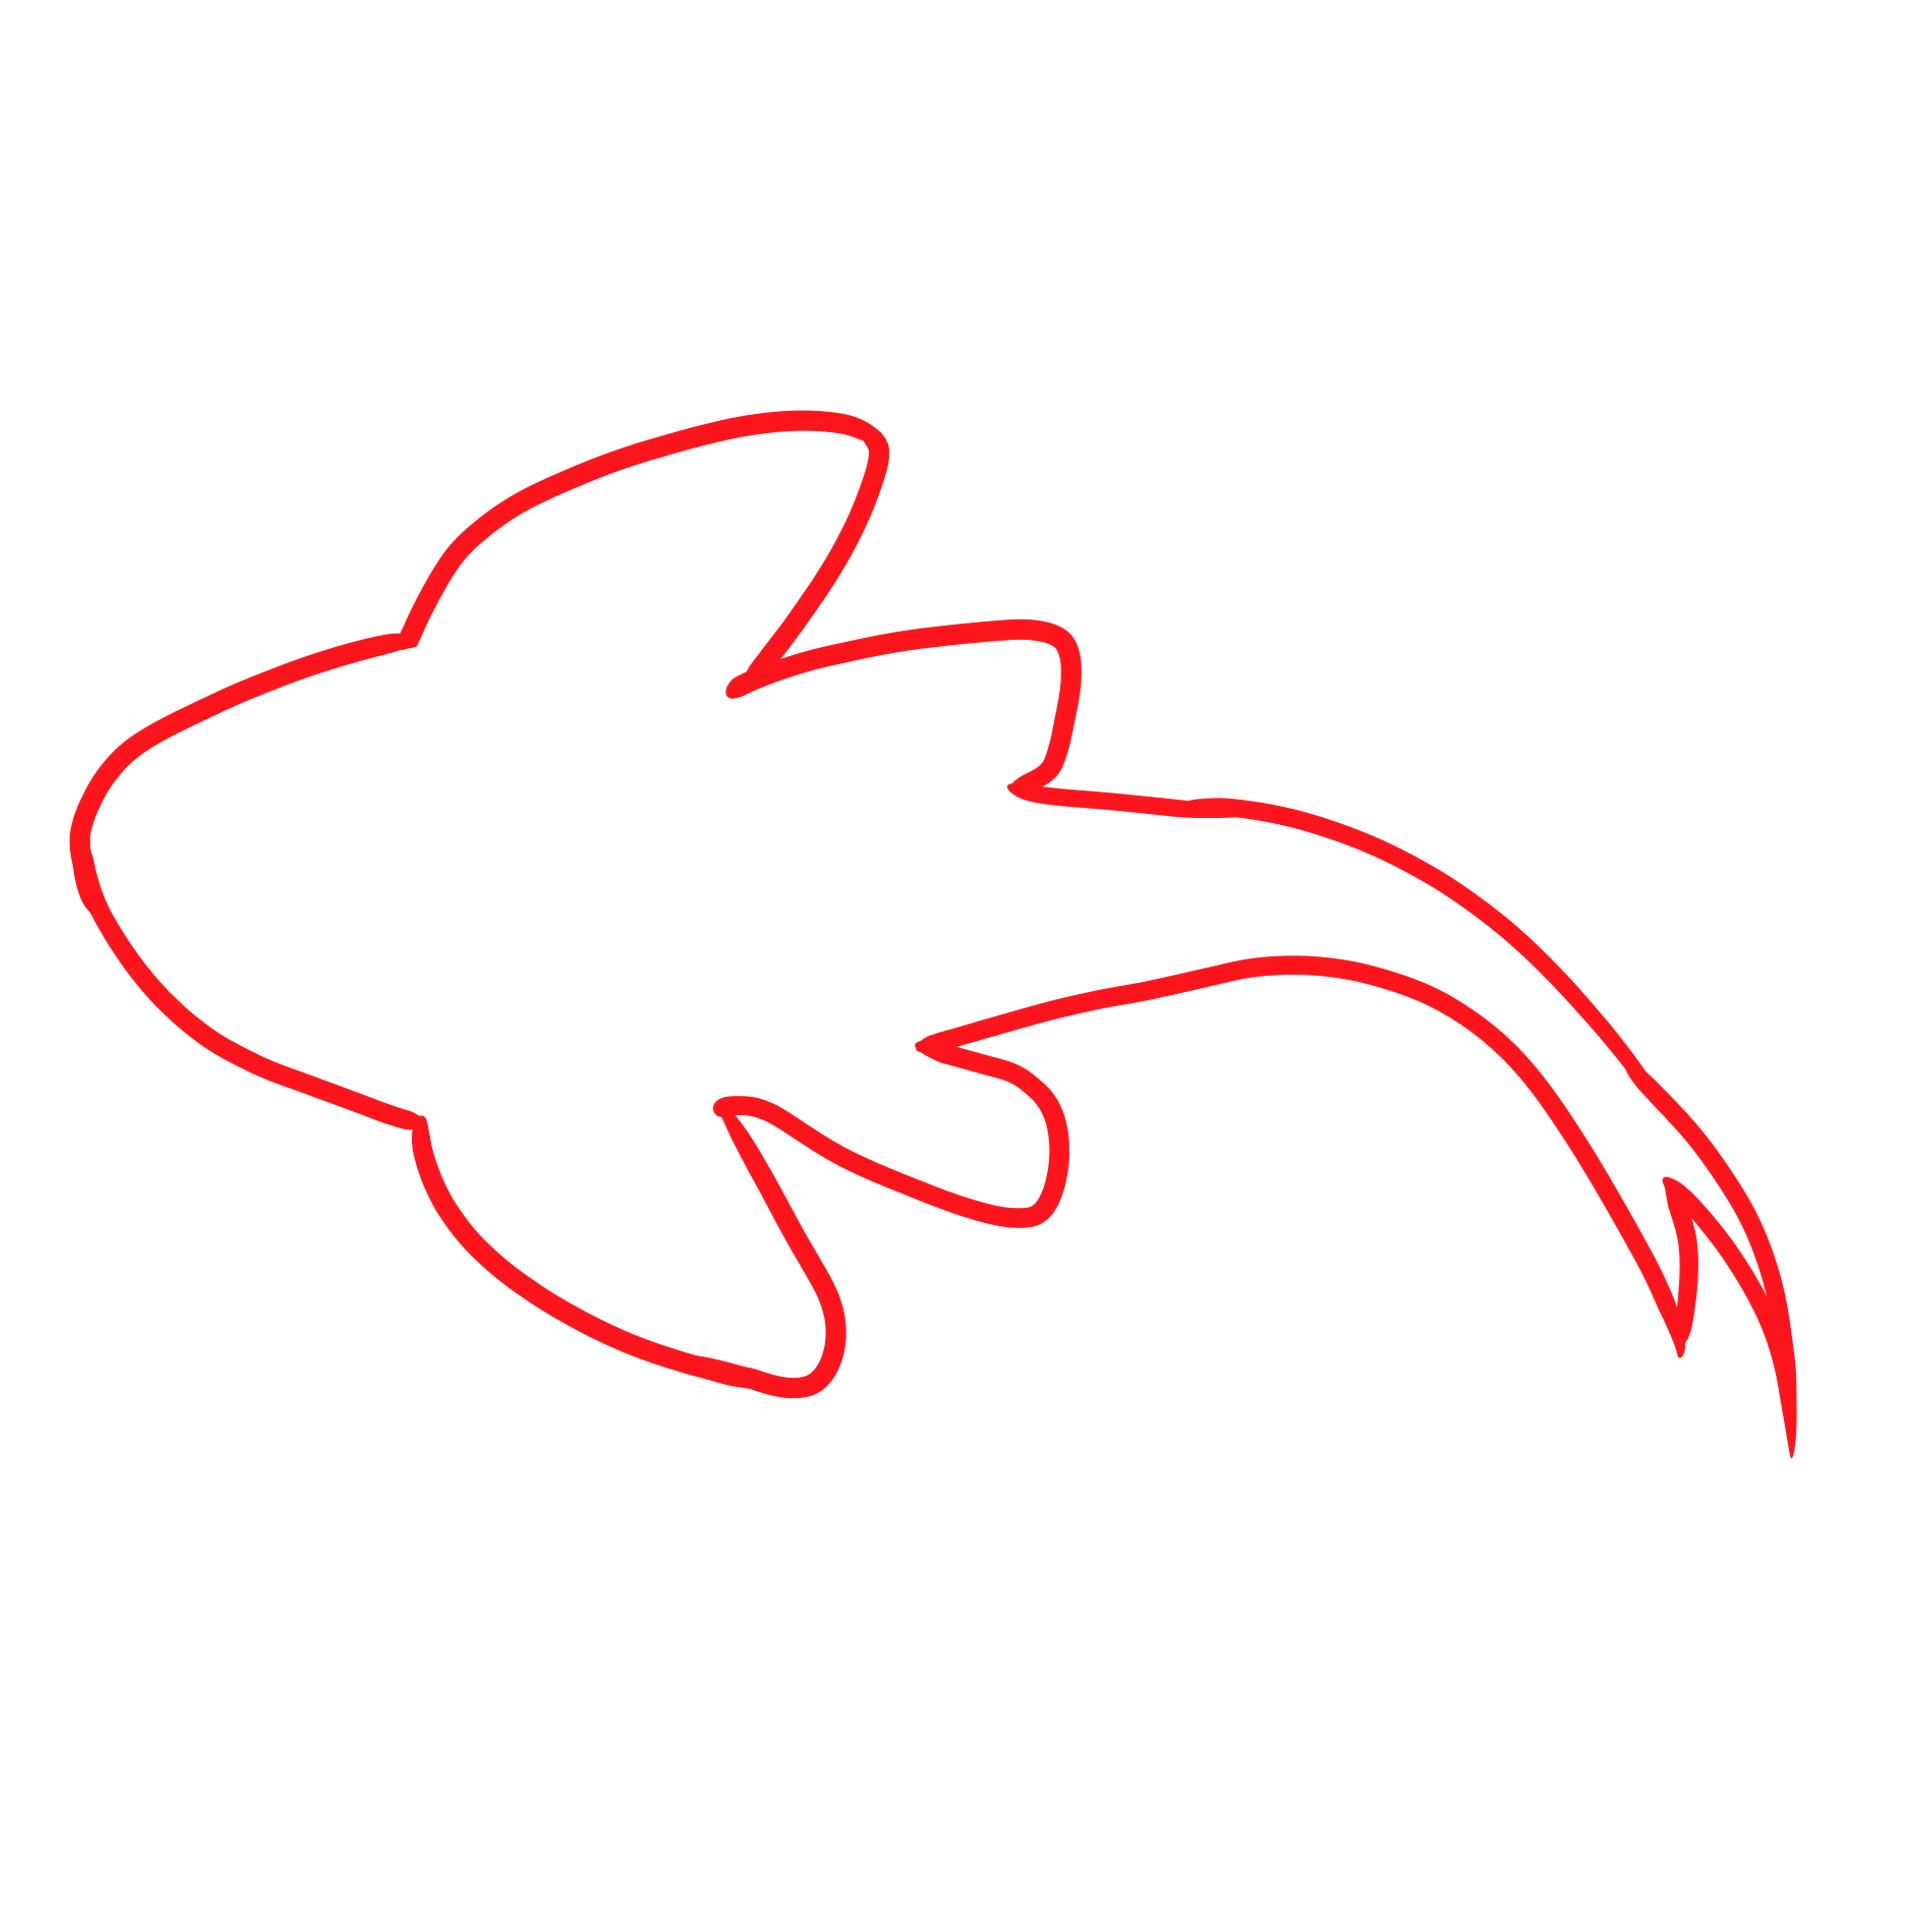
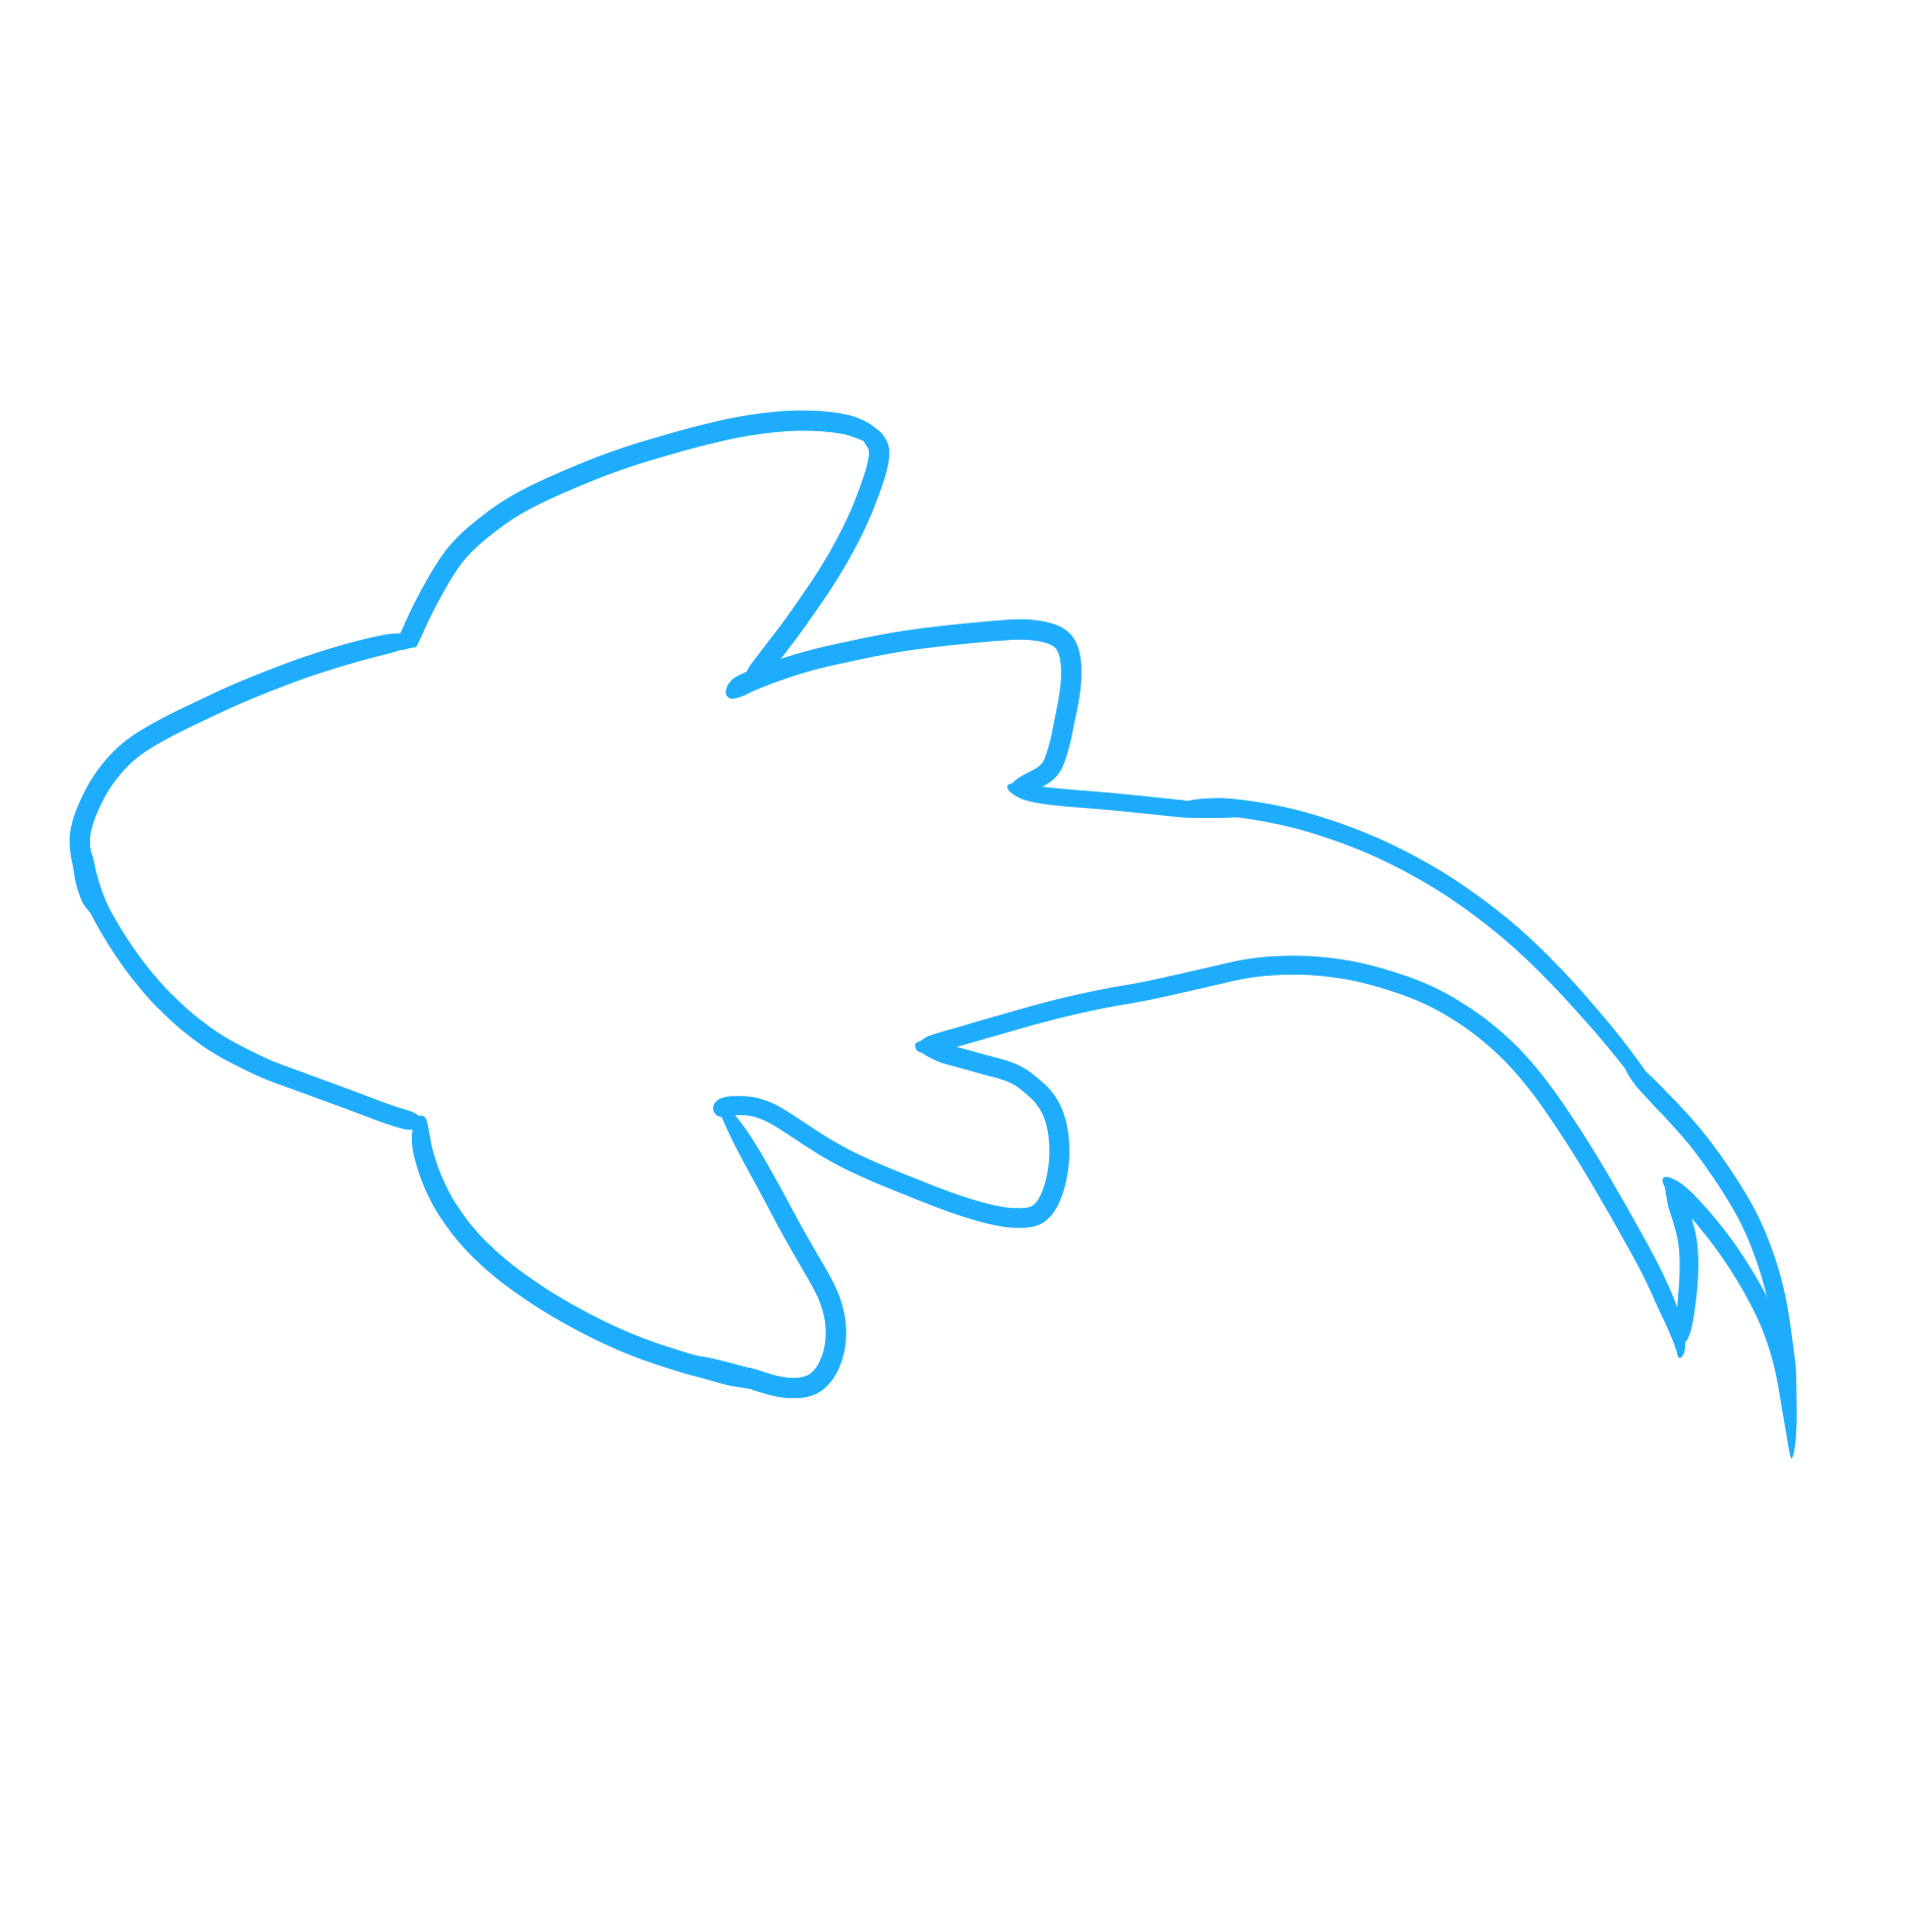
ui fix

diff --git a/js/app.js b/js/app.js
@@ -25,11 +25,11 @@ function addLog(msg, type) {
   l.scrollTop = l.scrollHeight;
 }
 function setActivePreset(num) {
-  document.querySelectorAll('.preset-btn, .arc-item, .day-btn').forEach(b => b.classList.remove('active'));
+  document.querySelectorAll('.preset-btn, .arc-item, .day-btn, .tracker-btn').forEach(b => b.classList.remove('active'));
   if (num != null) {
     const sel = '[data-preset="' + num + '"]';
     document.querySelectorAll(sel).forEach(b => {
-      if (b.classList.contains('preset-btn') || b.classList.contains('arc-item') || b.classList.contains('day-btn')) {
+      if (b.classList.contains('preset-btn') || b.classList.contains('arc-item') || b.classList.contains('day-btn') || b.classList.contains('tracker-btn')) {
         b.classList.add('active');
       }
     });
@@ -176,8 +176,8 @@ addTapListener(document.getElementById('custom-send'), async () => {
 });
 
 /* All tappable preset surfaces: arc items, preset buttons, day buttons, morse
- * (the good night button has its own handler — it also hands off to the tracker) */
-document.querySelectorAll('.arc-item, .preset-btn, .day-btn:not(.goodnight), .morse-btn').forEach(btn => {
+ * (the sun/moon tracker buttons have their own handlers — they also hand off to the tracker) */
+document.querySelectorAll('.arc-item, .preset-btn, .day-btn, .morse-btn').forEach(btn => {
   addTapListener(btn, async (e) => {
     if (!(await ensureConnected())) return;
     if (e && e.touches && e.touches[0]) {
@@ -195,11 +195,14 @@ document.querySelectorAll('.arc-item, .preset-btn, .day-btn:not(.goodnight), .mo
   });
 });
 
-/* Good night: set the evening lights, then hand off to the sleep tracker demo */
-addTapListener(document.getElementById('goodnight-btn'), async () => {
-  if (!(await ensureConnected())) return;
-  const ok = await sendPreset(14, 'good evening');
-  if (ok) { lightOn = true; setPowerUI('on'); setActivePreset(14); }
-  addLog('off to the sleep tracker \u2192', 'ok');
-  setTimeout(() => { window.location.href = 'https://prachidpatel.github.io/fish-and-chips-sleep-tracker/'; }, 700);
+/* Sleep tracker handoff: Sun wakes the lights (good morning), Moon settles
+   them (good evening) — then both hand off to the sleep tracker. */
+[['tracker-sun', '13', 'good morning'], ['tracker-moon', '14', 'good evening']].forEach(([id, preset, name]) => {
+  addTapListener(document.getElementById(id), async () => {
+    if (!(await ensureConnected())) return;
+    const ok = await sendPreset(preset, name);
+    if (ok) { lightOn = true; setPowerUI('on'); setActivePreset(preset); }
+    addLog('off to the sleep tracker \u2192', 'ok');
+    setTimeout(() => { window.location.href = 'https://prachidpatel.github.io/fish-and-chips-sleep-tracker/'; }, 700);
+  });
 });

diff --git a/css/style.css b/css/style.css
@@ -657,18 +657,36 @@
   }
   .day-btn.morning { --accent: rgba(251, 191, 36, 0.5); }
   .day-btn.evening { --accent: rgba(192, 132, 252, 0.55); }
-  .day-btn.goodnight {
-    --accent: rgba(148, 163, 255, 0.5);
+  /* ===== Sleep tracker handoff (sun / moon) ===== */
+  .tracker-row {
+    display: grid;
+    grid-template-columns: 1fr 1fr;
+    gap: 10px;
     width: 100%;
-    margin-top: 10px;
-    min-height: 74px;
-    flex-direction: row;
-    justify-content: center;
-    align-items: center;
-    gap: 12px;
+    margin-top: 2px;
   }
-  .day-btn.goodnight .day-icon { font-size: 24px; }
-  .day-btn.goodnight .day-text { display: flex; flex-direction: column; align-items: flex-start; gap: 2px; }
+  .tracker-btn {
+    background: linear-gradient(160deg, rgba(8, 47, 73, 0.40), rgba(2, 6, 23, 0.55));
+    border: 0.5px solid var(--accent, rgba(34, 211, 238, 0.3));
+    border-radius: 16px;
+    padding: 0.85rem;
+    cursor: pointer;
+    touch-action: manipulation;
+    -webkit-appearance: none; appearance: none;
+    backdrop-filter: blur(8px); -webkit-backdrop-filter: blur(8px);
+    display: flex; align-items: center; justify-content: center;
+    box-shadow: 0 0 18px -6px var(--accent), inset 0 1px 0 rgba(207, 250, 254, 0.06);
+    transition: transform 0.15s cubic-bezier(.34,1.56,.64,1), box-shadow 0.3s;
+    min-height: 64px;
+    color: var(--text);
+  }
+  .tracker-btn:active { transform: scale(0.96); filter: brightness(1.5); }
+  .tracker-btn.active {
+    box-shadow: 0 0 22px -2px var(--accent), 0 0 48px -10px var(--accent), inset 0 1px 0 rgba(207, 250, 254, 0.1);
+  }
+  #tracker-sun { --accent: rgba(251, 191, 36, 0.45); color: #ffd9a0; }
+  #tracker-moon { --accent: rgba(147, 197, 253, 0.5); color: #bfe4ff; }
+  .tracker-icon { width: 30px; height: 30px; display: block; }
   .day-icon { font-size: 28px; line-height: 1; }
   .day-name {
     font-family: 'DM Serif Display', serif;

diff --git a/index.html b/index.html
@@ -161,14 +161,20 @@
       <span class="day-sub">dusk · soft</span>
     </button>
   </div>
-  <button class="day-btn goodnight" id="goodnight-btn">
-    <span class="day-icon">🌙</span>
-    <span class="day-text">
-      <span class="day-name">good night</span>
-      <span class="day-sub">lights down · open sleep tracker</span>
-    </span>
-    <span class="day-icon" style="font-size:18px">→</span>
-  </button>
+  <div class="section-label">sleep tracker</div>
+  <div class="tracker-row">
+    <button class="tracker-btn" id="tracker-sun" data-preset="13" data-name="good morning" aria-label="wake up: good morning lights, then open sleep tracker">
+      <svg class="tracker-icon" viewBox="0 0 24 24" fill="none" stroke="currentColor" stroke-width="1.8" stroke-linecap="round">
+        <circle cx="12" cy="12" r="4.2"/>
+        <path d="M12 2.5v2.6M12 18.9v2.6M2.5 12h2.6M18.9 12h2.6M5.3 5.3l1.8 1.8M16.9 16.9l1.8 1.8M18.7 5.3l-1.8 1.8M7.1 16.9l-1.8 1.8"/>
+      </svg>
+    </button>
+    <button class="tracker-btn" id="tracker-moon" data-preset="14" data-name="good evening" aria-label="sleep: good evening lights, then open sleep tracker">
+      <svg class="tracker-icon" viewBox="0 0 24 24" fill="currentColor">
+        <path d="M20.5 14.3A8.7 8.7 0 0 1 9.7 3.5a8.7 8.7 0 1 0 10.8 10.8Z"/>
+      </svg>
+    </button>
+  </div>
 
   <div class="custom-section">
     <div class="custom-label">any preset</div>
